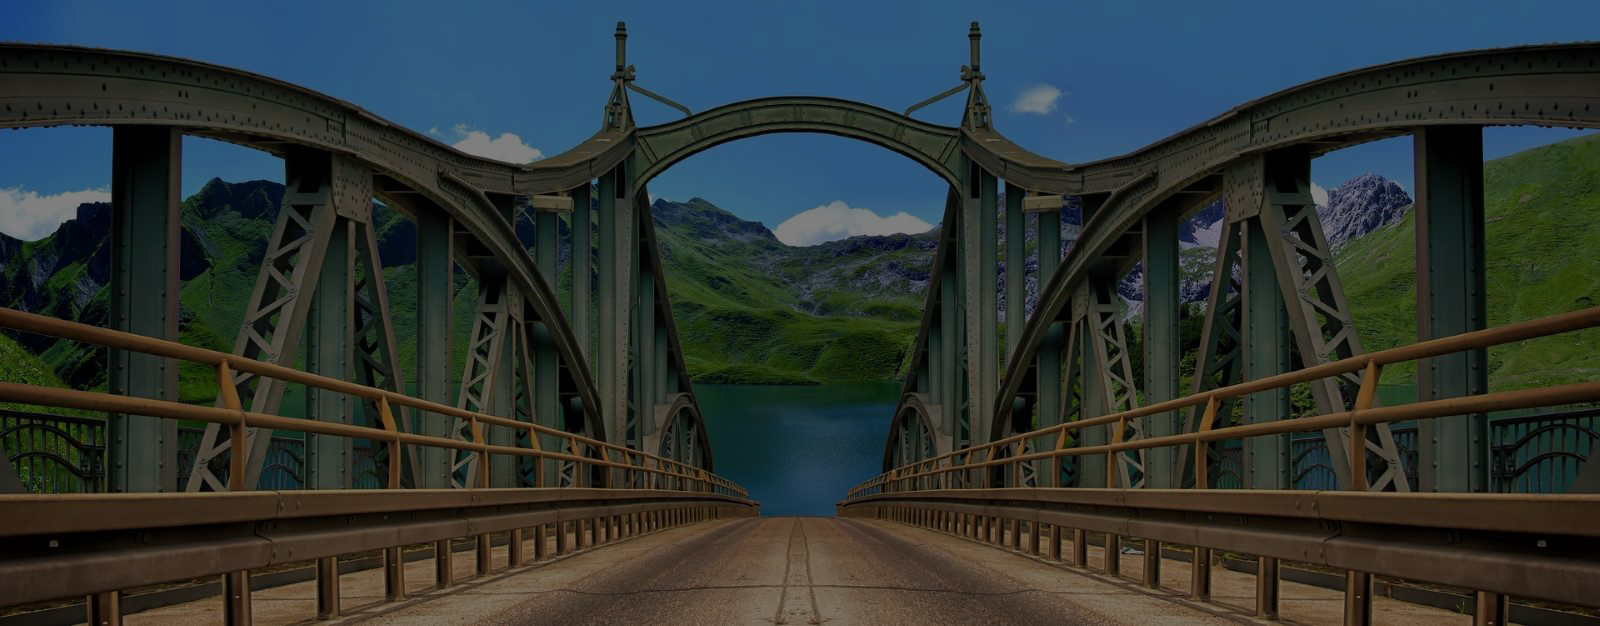
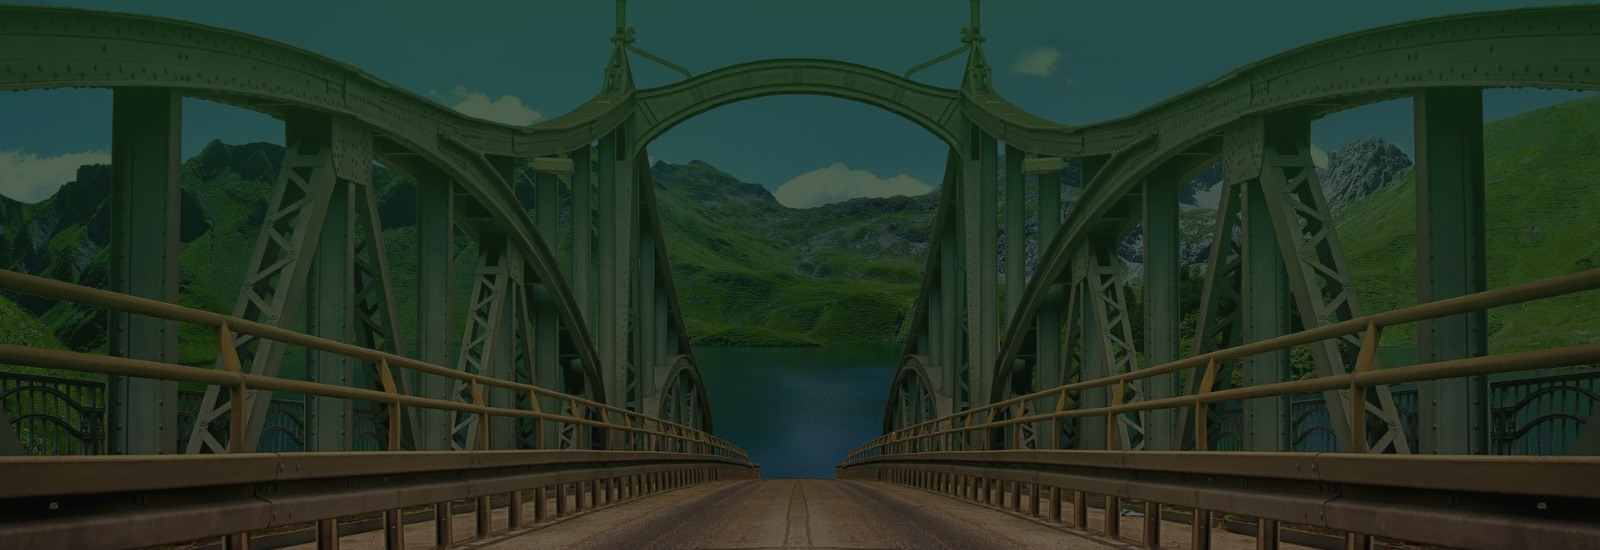
160123 1941

diff --git a/css/style.css b/css/style.css
@@ -60,11 +60,13 @@ body {
     left: 0;
     width: 100%;
     height: 100%;
-    background-color: var(--color-2);
+    /*background-color: var(--color-2);*/
     z-index: 2;
 }
 
-.header__container {}
+.header__container {
+    padding: 1rem 0 0 0;
+}
 
 .header__body {
     position: relative;
